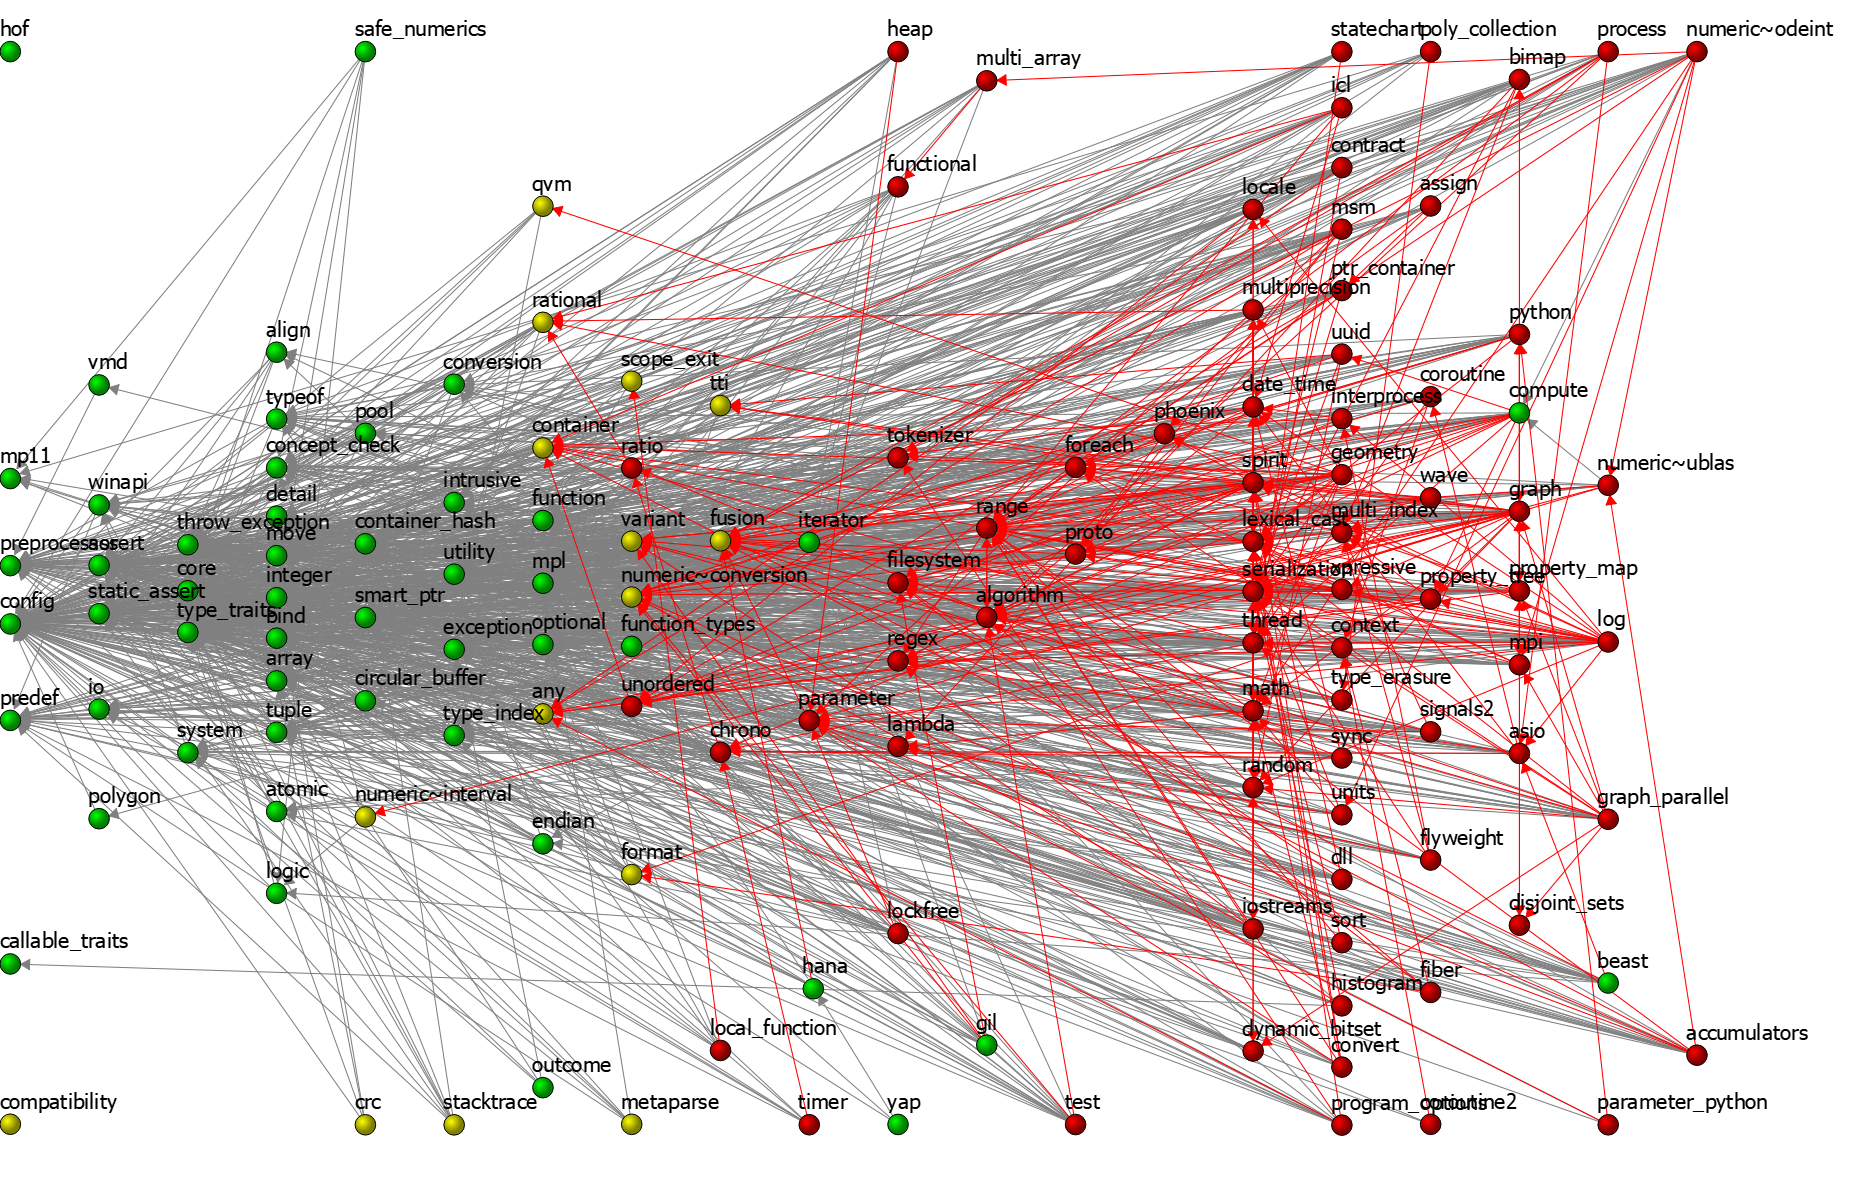
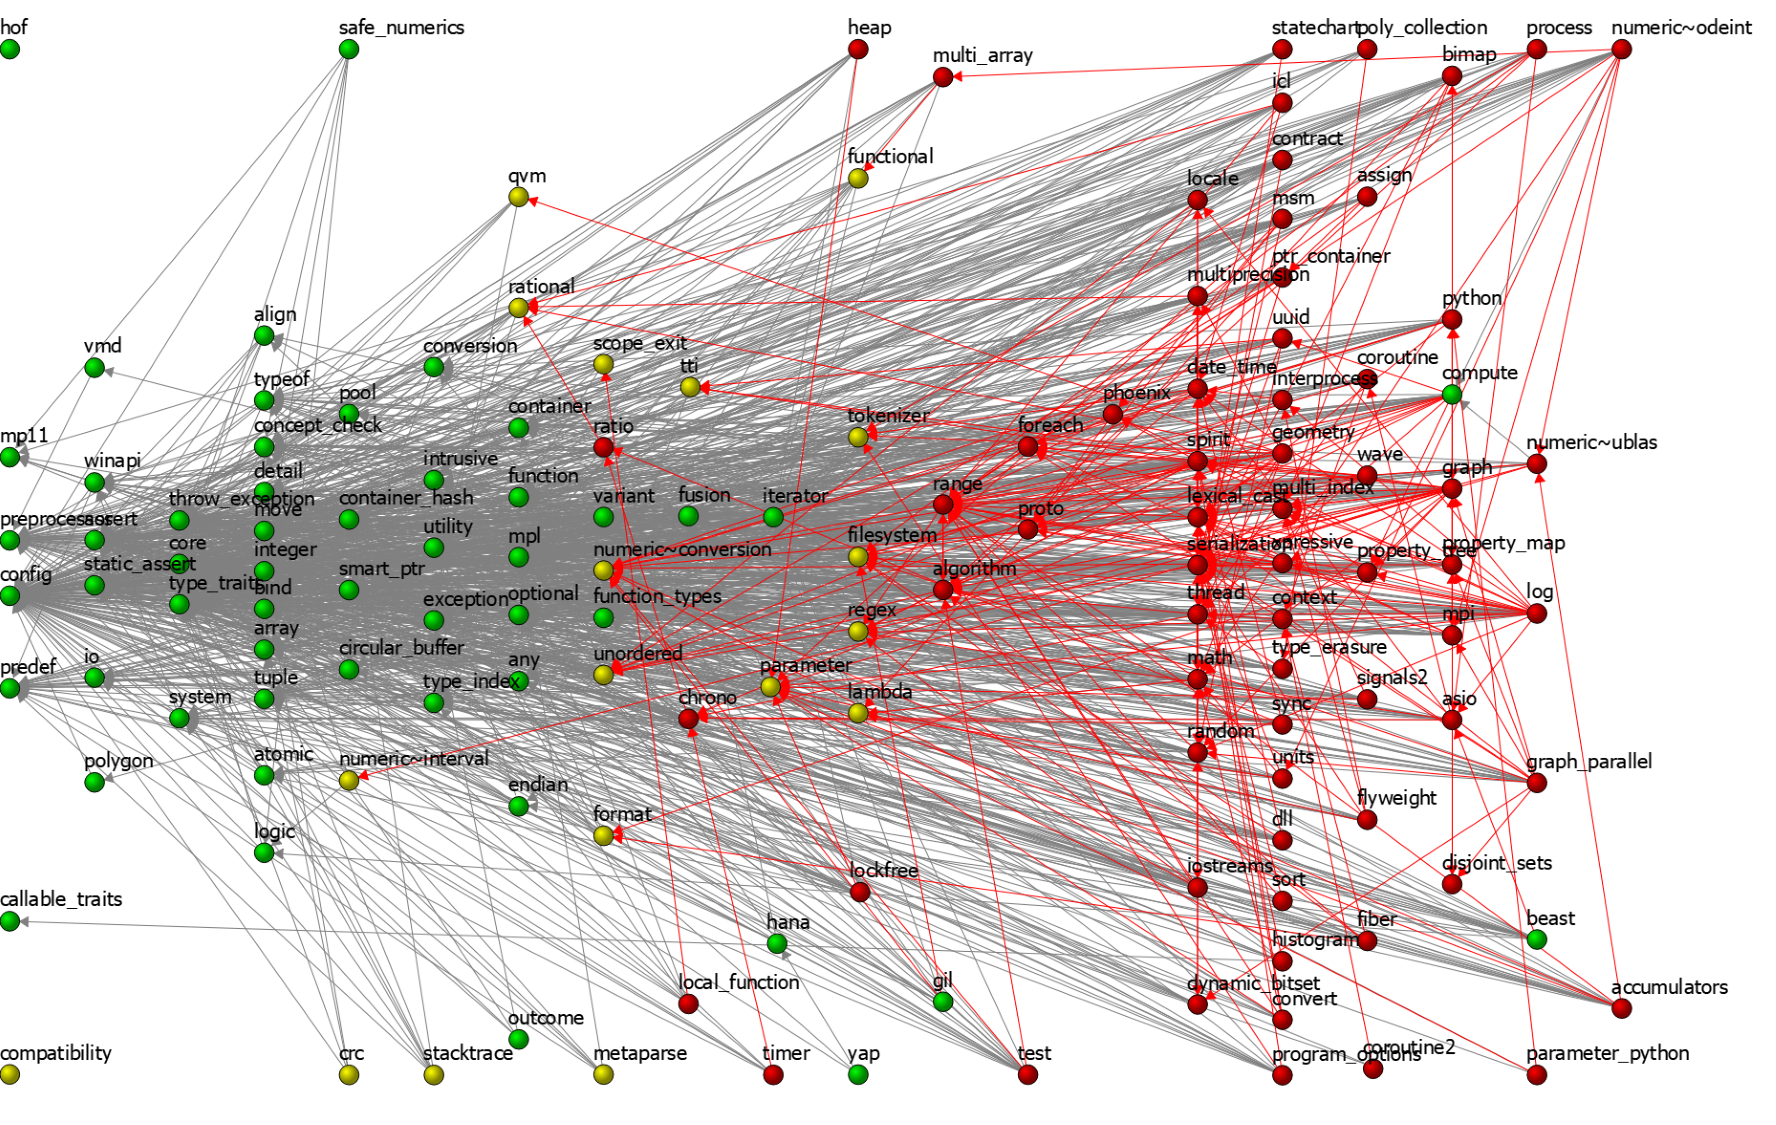
Update image

diff --git a/README.md b/README.md
@@ -1,7 +1,7 @@
 # BoostDepGraph
 A tool to visualize the boost dependency graph.
 
-![Dependency graph as of 21-02-2019](Boostdep-small.png)
+![Dependency graph as of 21-02-2019](Boostdep.png)
 
 
 ### WARNING: This project is still very much in flux (alpha version), so expect the Readme to be out of sync with the code and occasionally broken commits.
